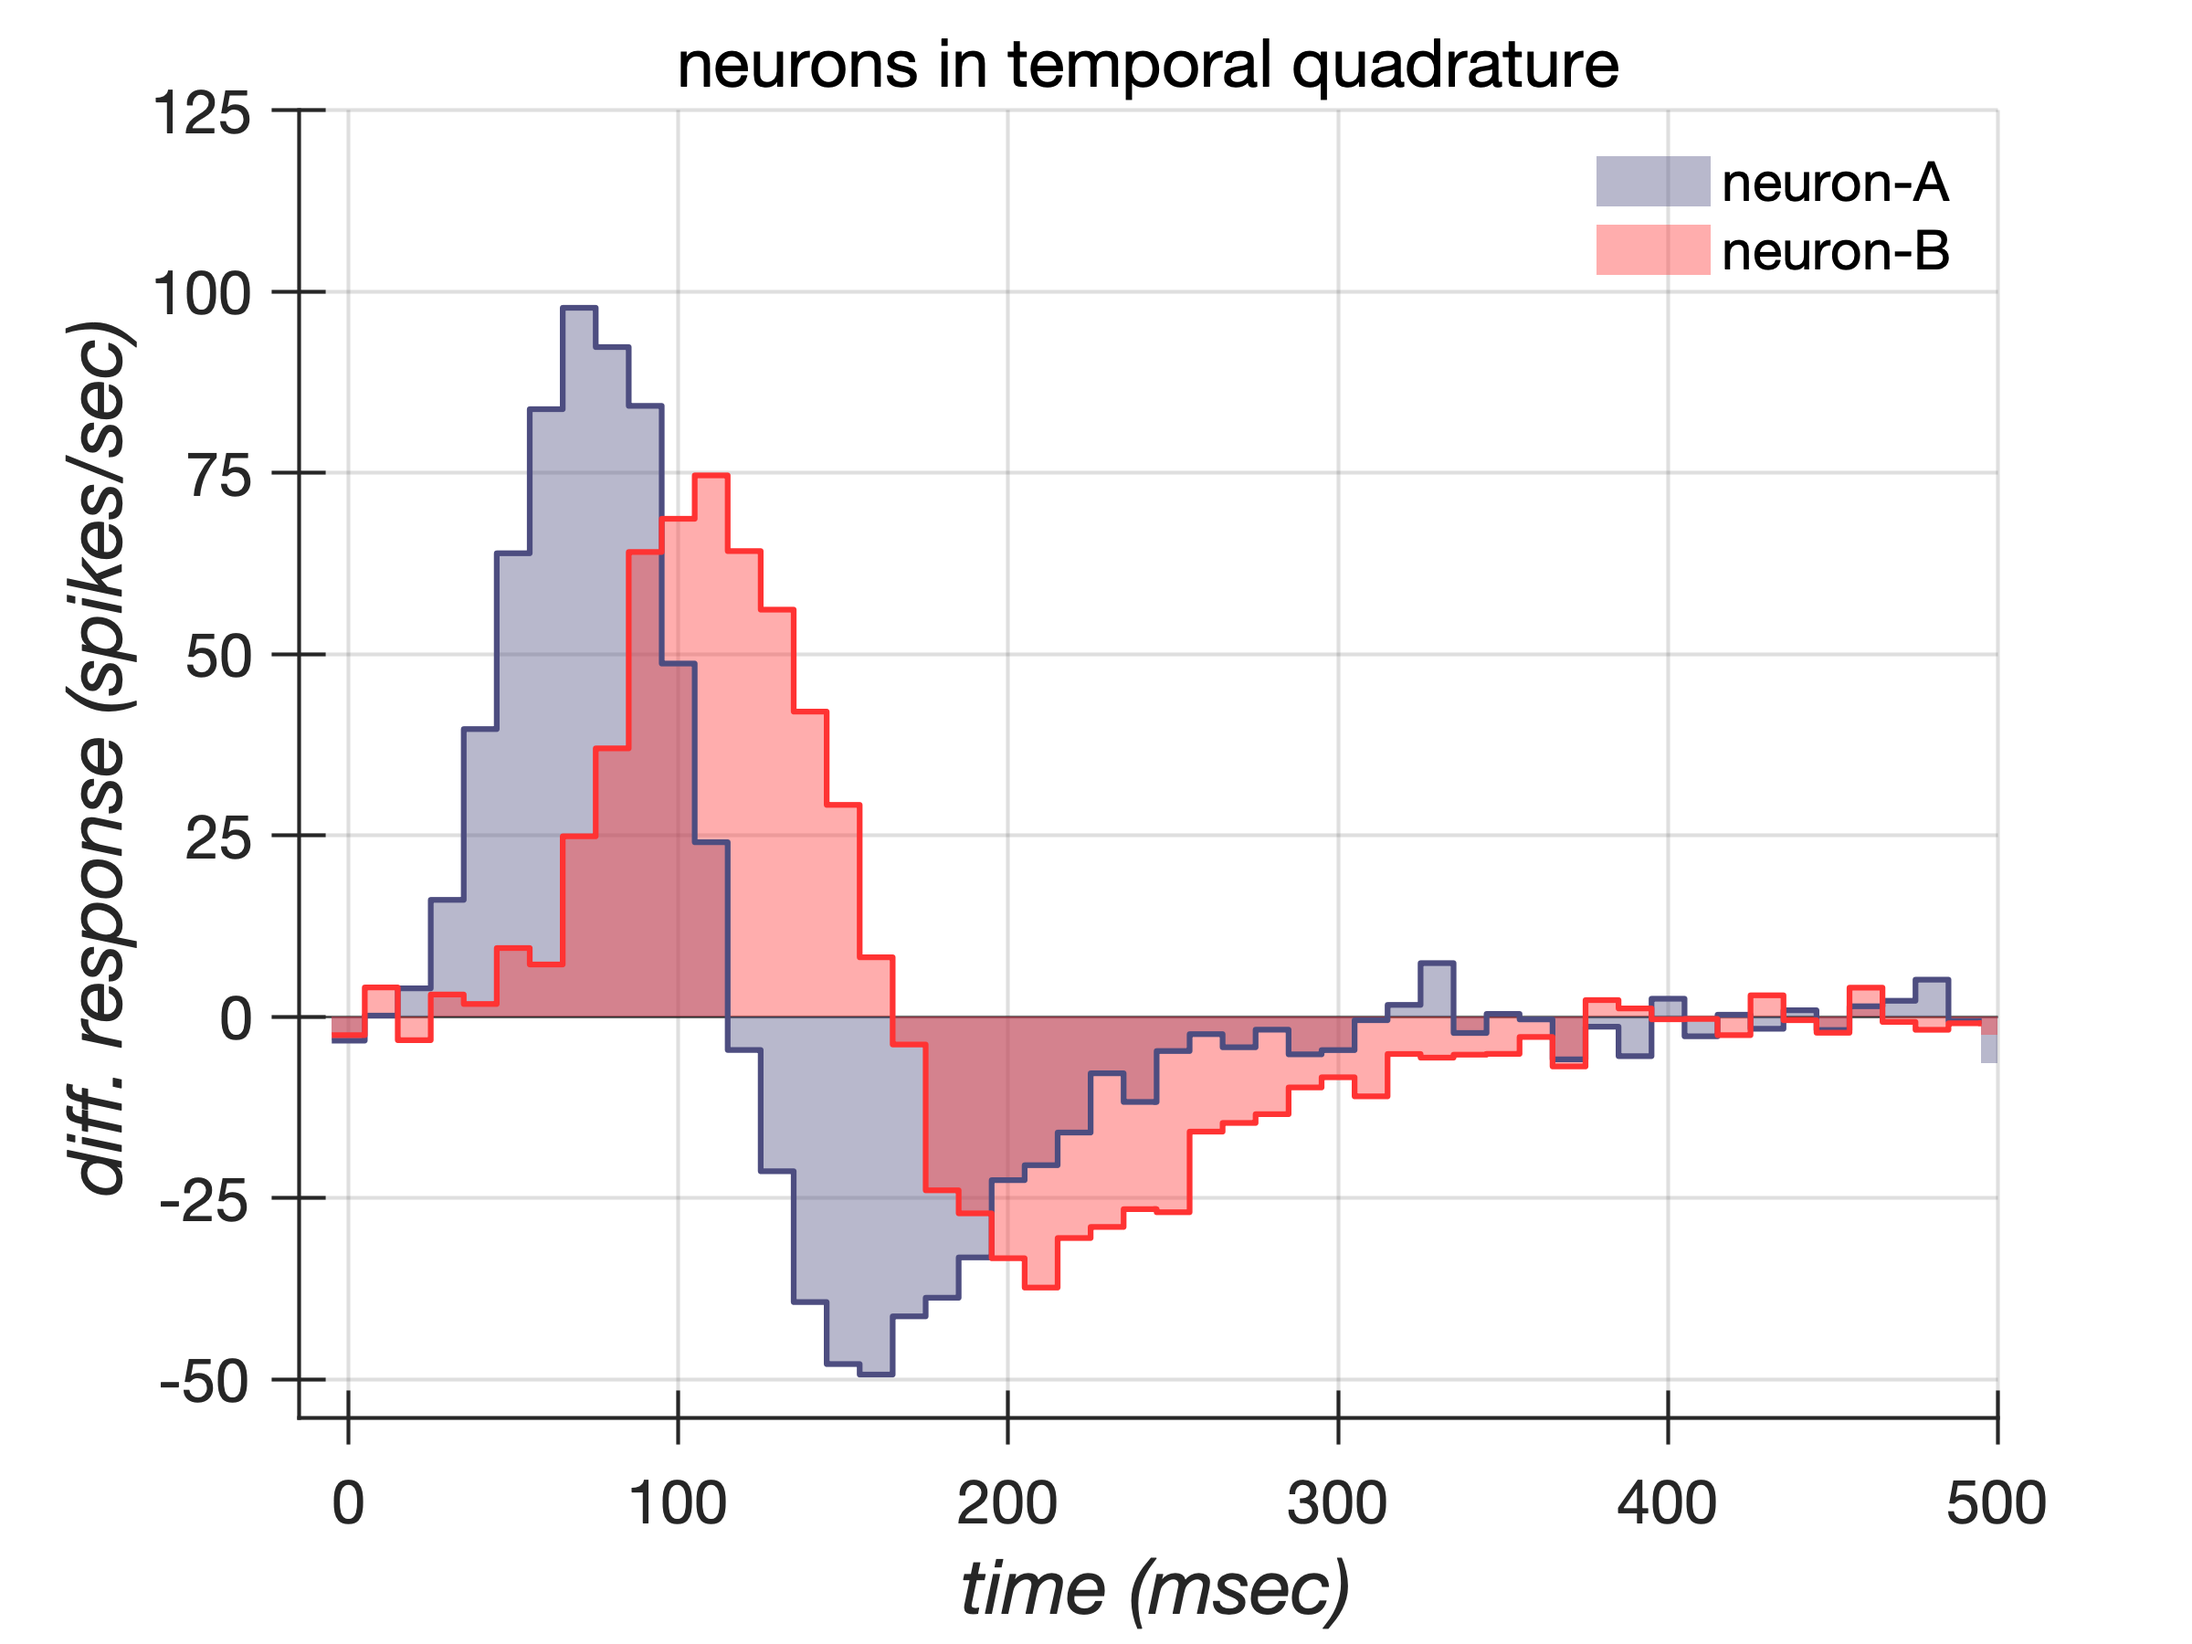
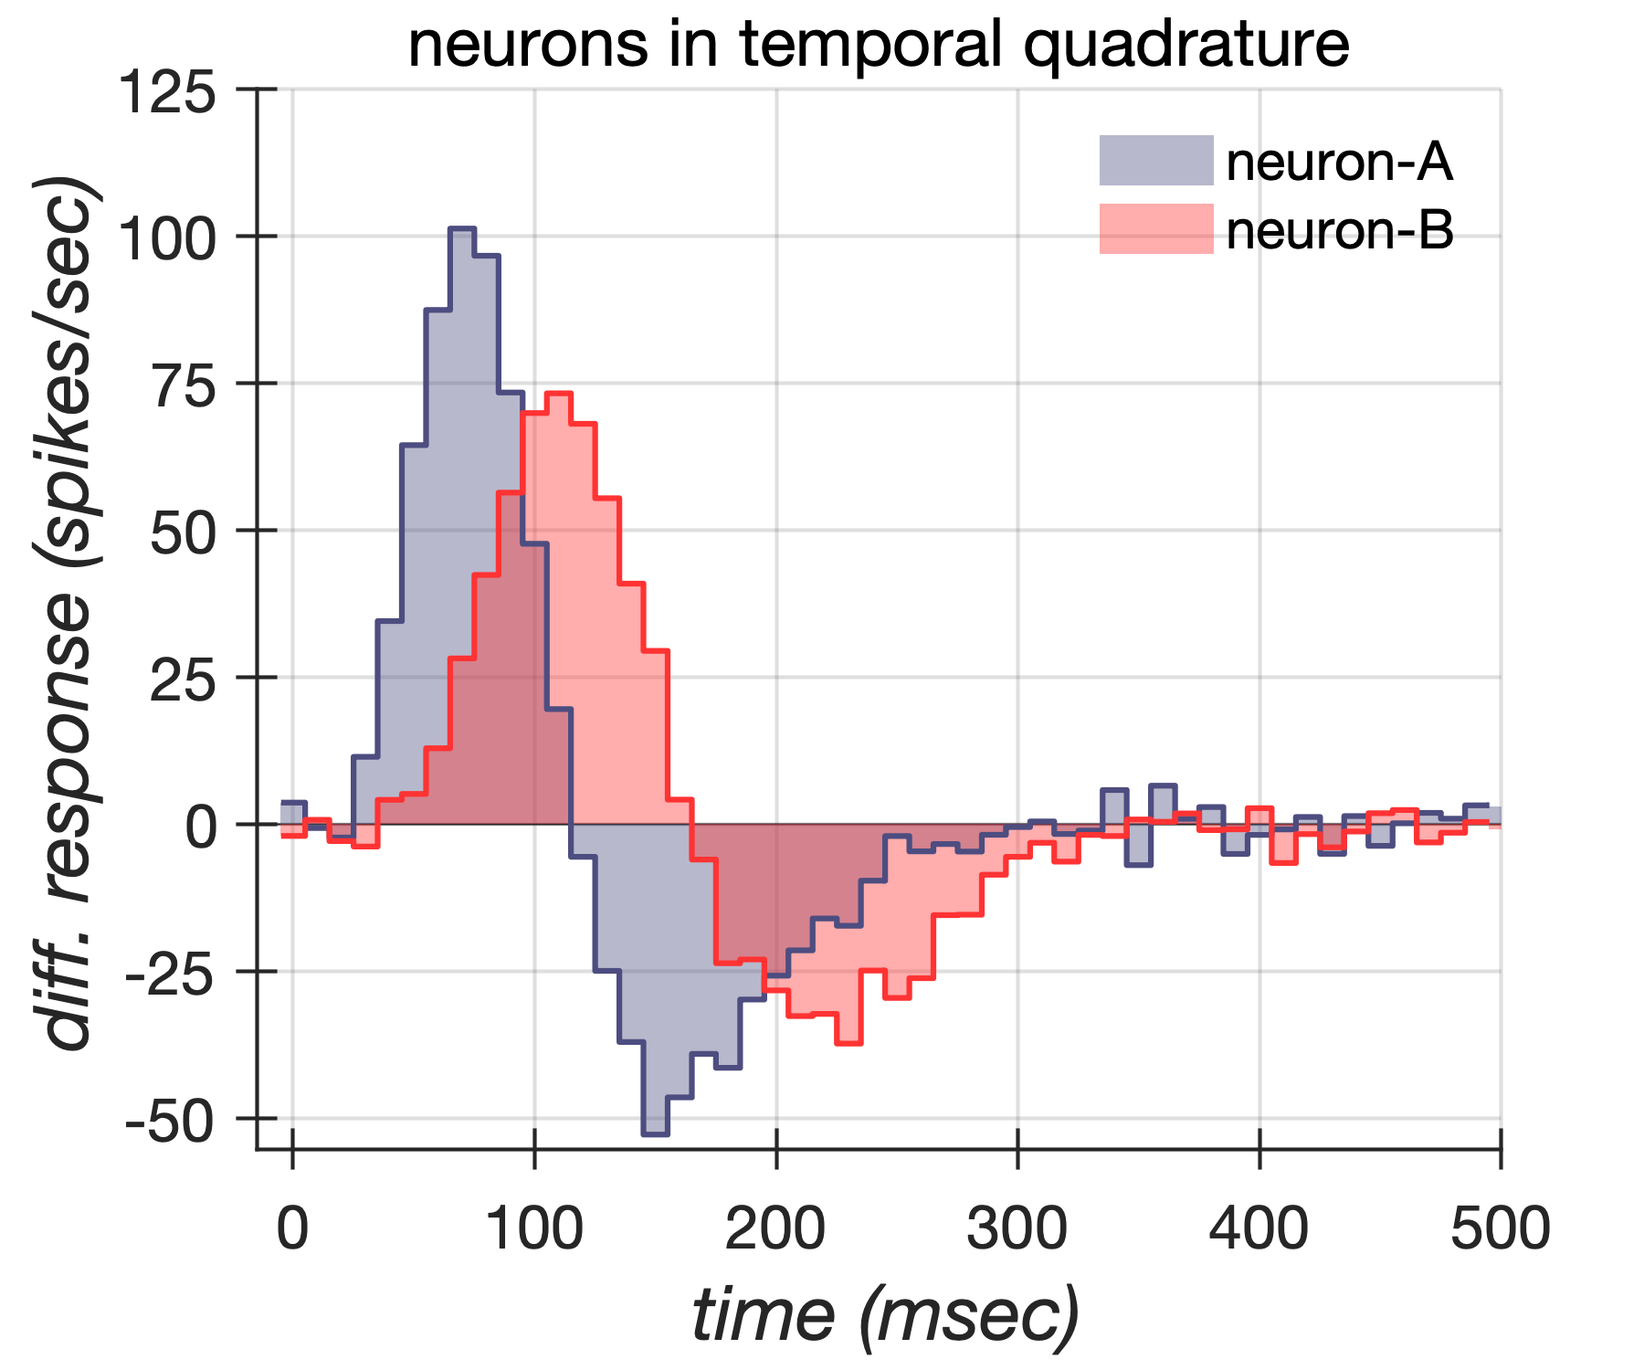
Updates

Changed region(s): [[0.0, 0.0, 0.9644, 0.9813]]

diff --git a/tutorials/t_histogramPlotUsingExternalRecipe.m b/tutorials/t_histogramPlotUsingExternalRecipe.m
@@ -15,8 +15,8 @@ function t_histogramPlotUsingExternalRecipe()
     % Apply that recipe
     plotlab.applyRecipe(...
         'customRecipeFunction', @()whichExternalRecipe(neuronColors), ...
-        'figureWidthInches', 8, ...
-        'figureHeightInches', 6);
+        'figureWidthInches', 6, ...
+        'figureHeightInches', 5);
     
     % New figure
     hFig = figure(1); clf;
